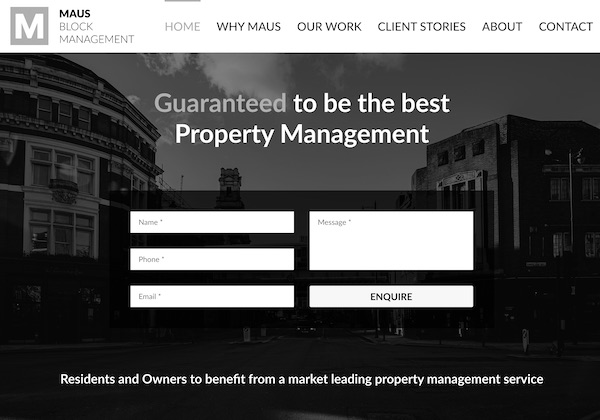
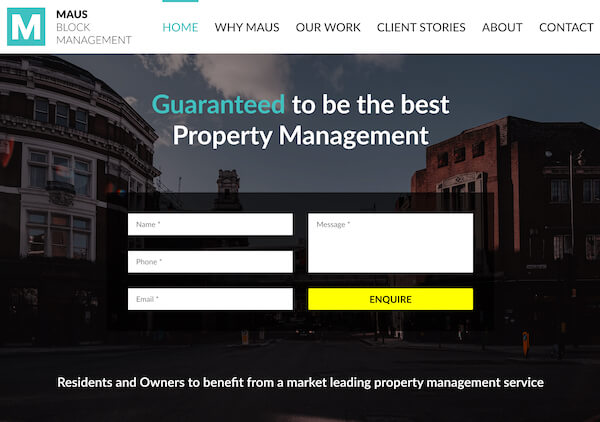
Add saturation filter to images on the homepage

diff --git a/styles/Home.module.scss b/styles/Home.module.scss
@@ -99,6 +99,12 @@
     justify-content: center;
     text-align: center;
     padding: 2rem;
+    a span img {
+        filter: saturate(0);
+    }
+    a:hover span img {
+        filter: unset;
+    }
 }
 .lbl,
 .rrt {
